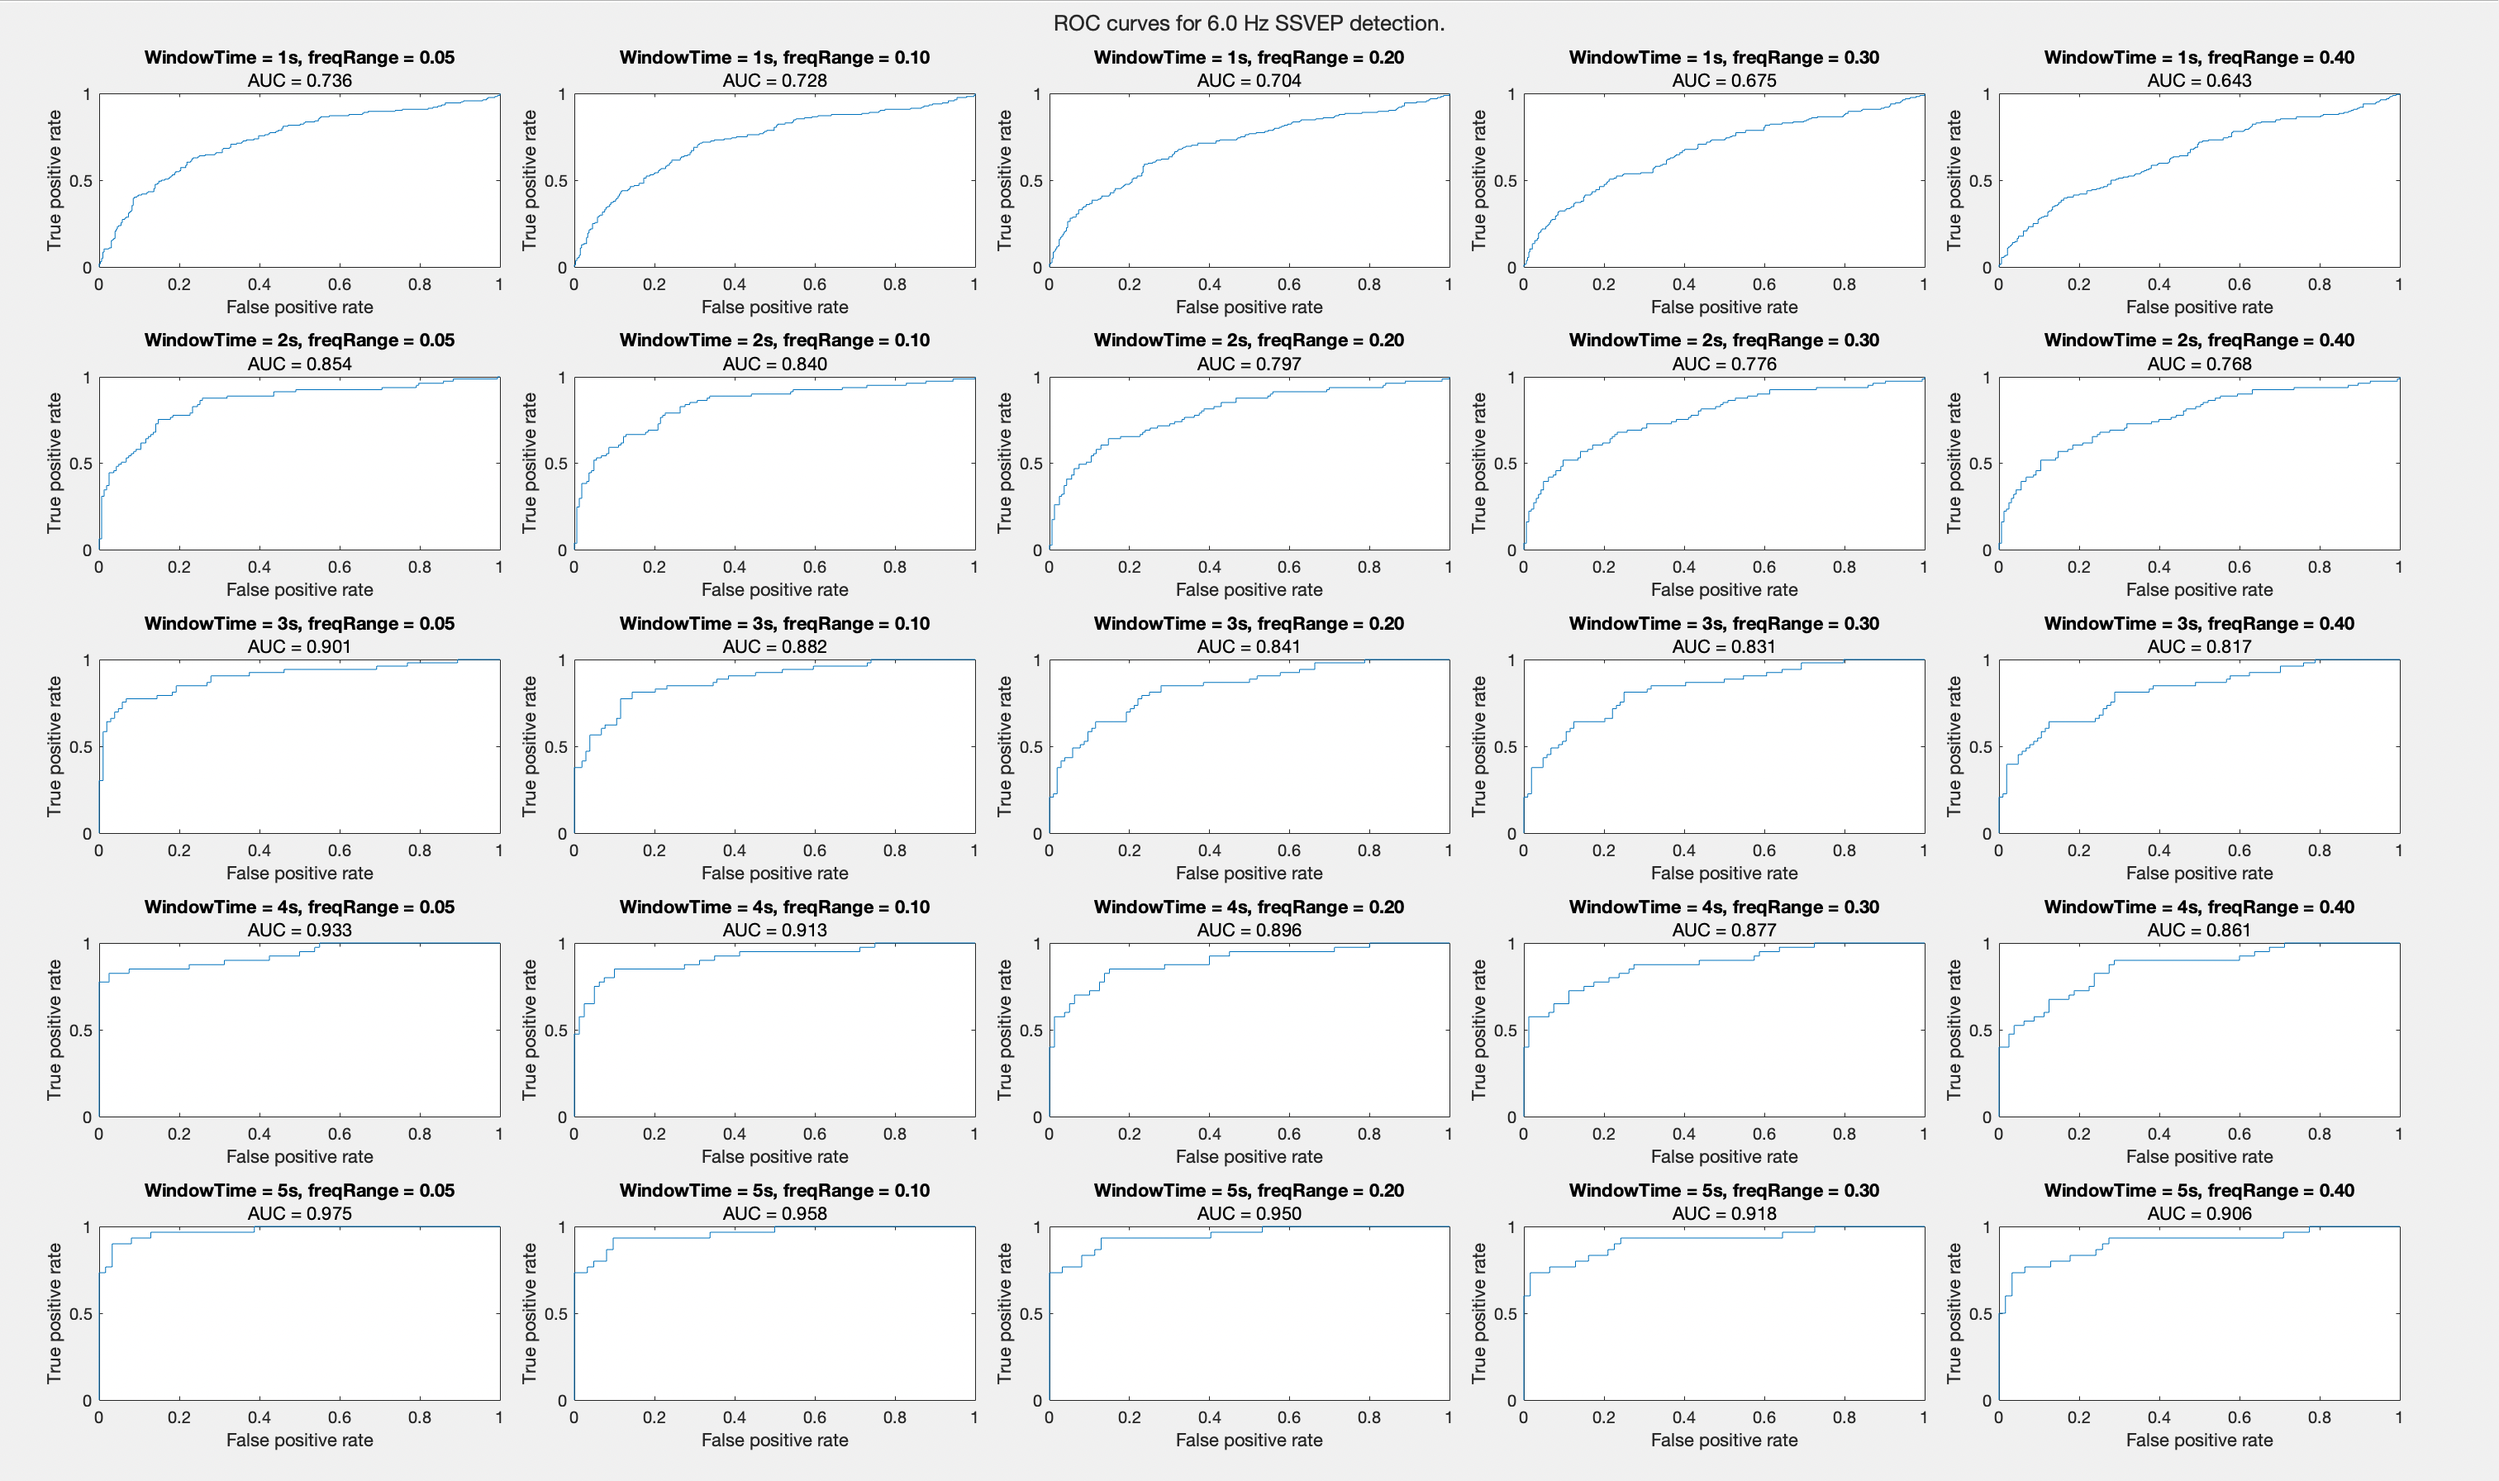
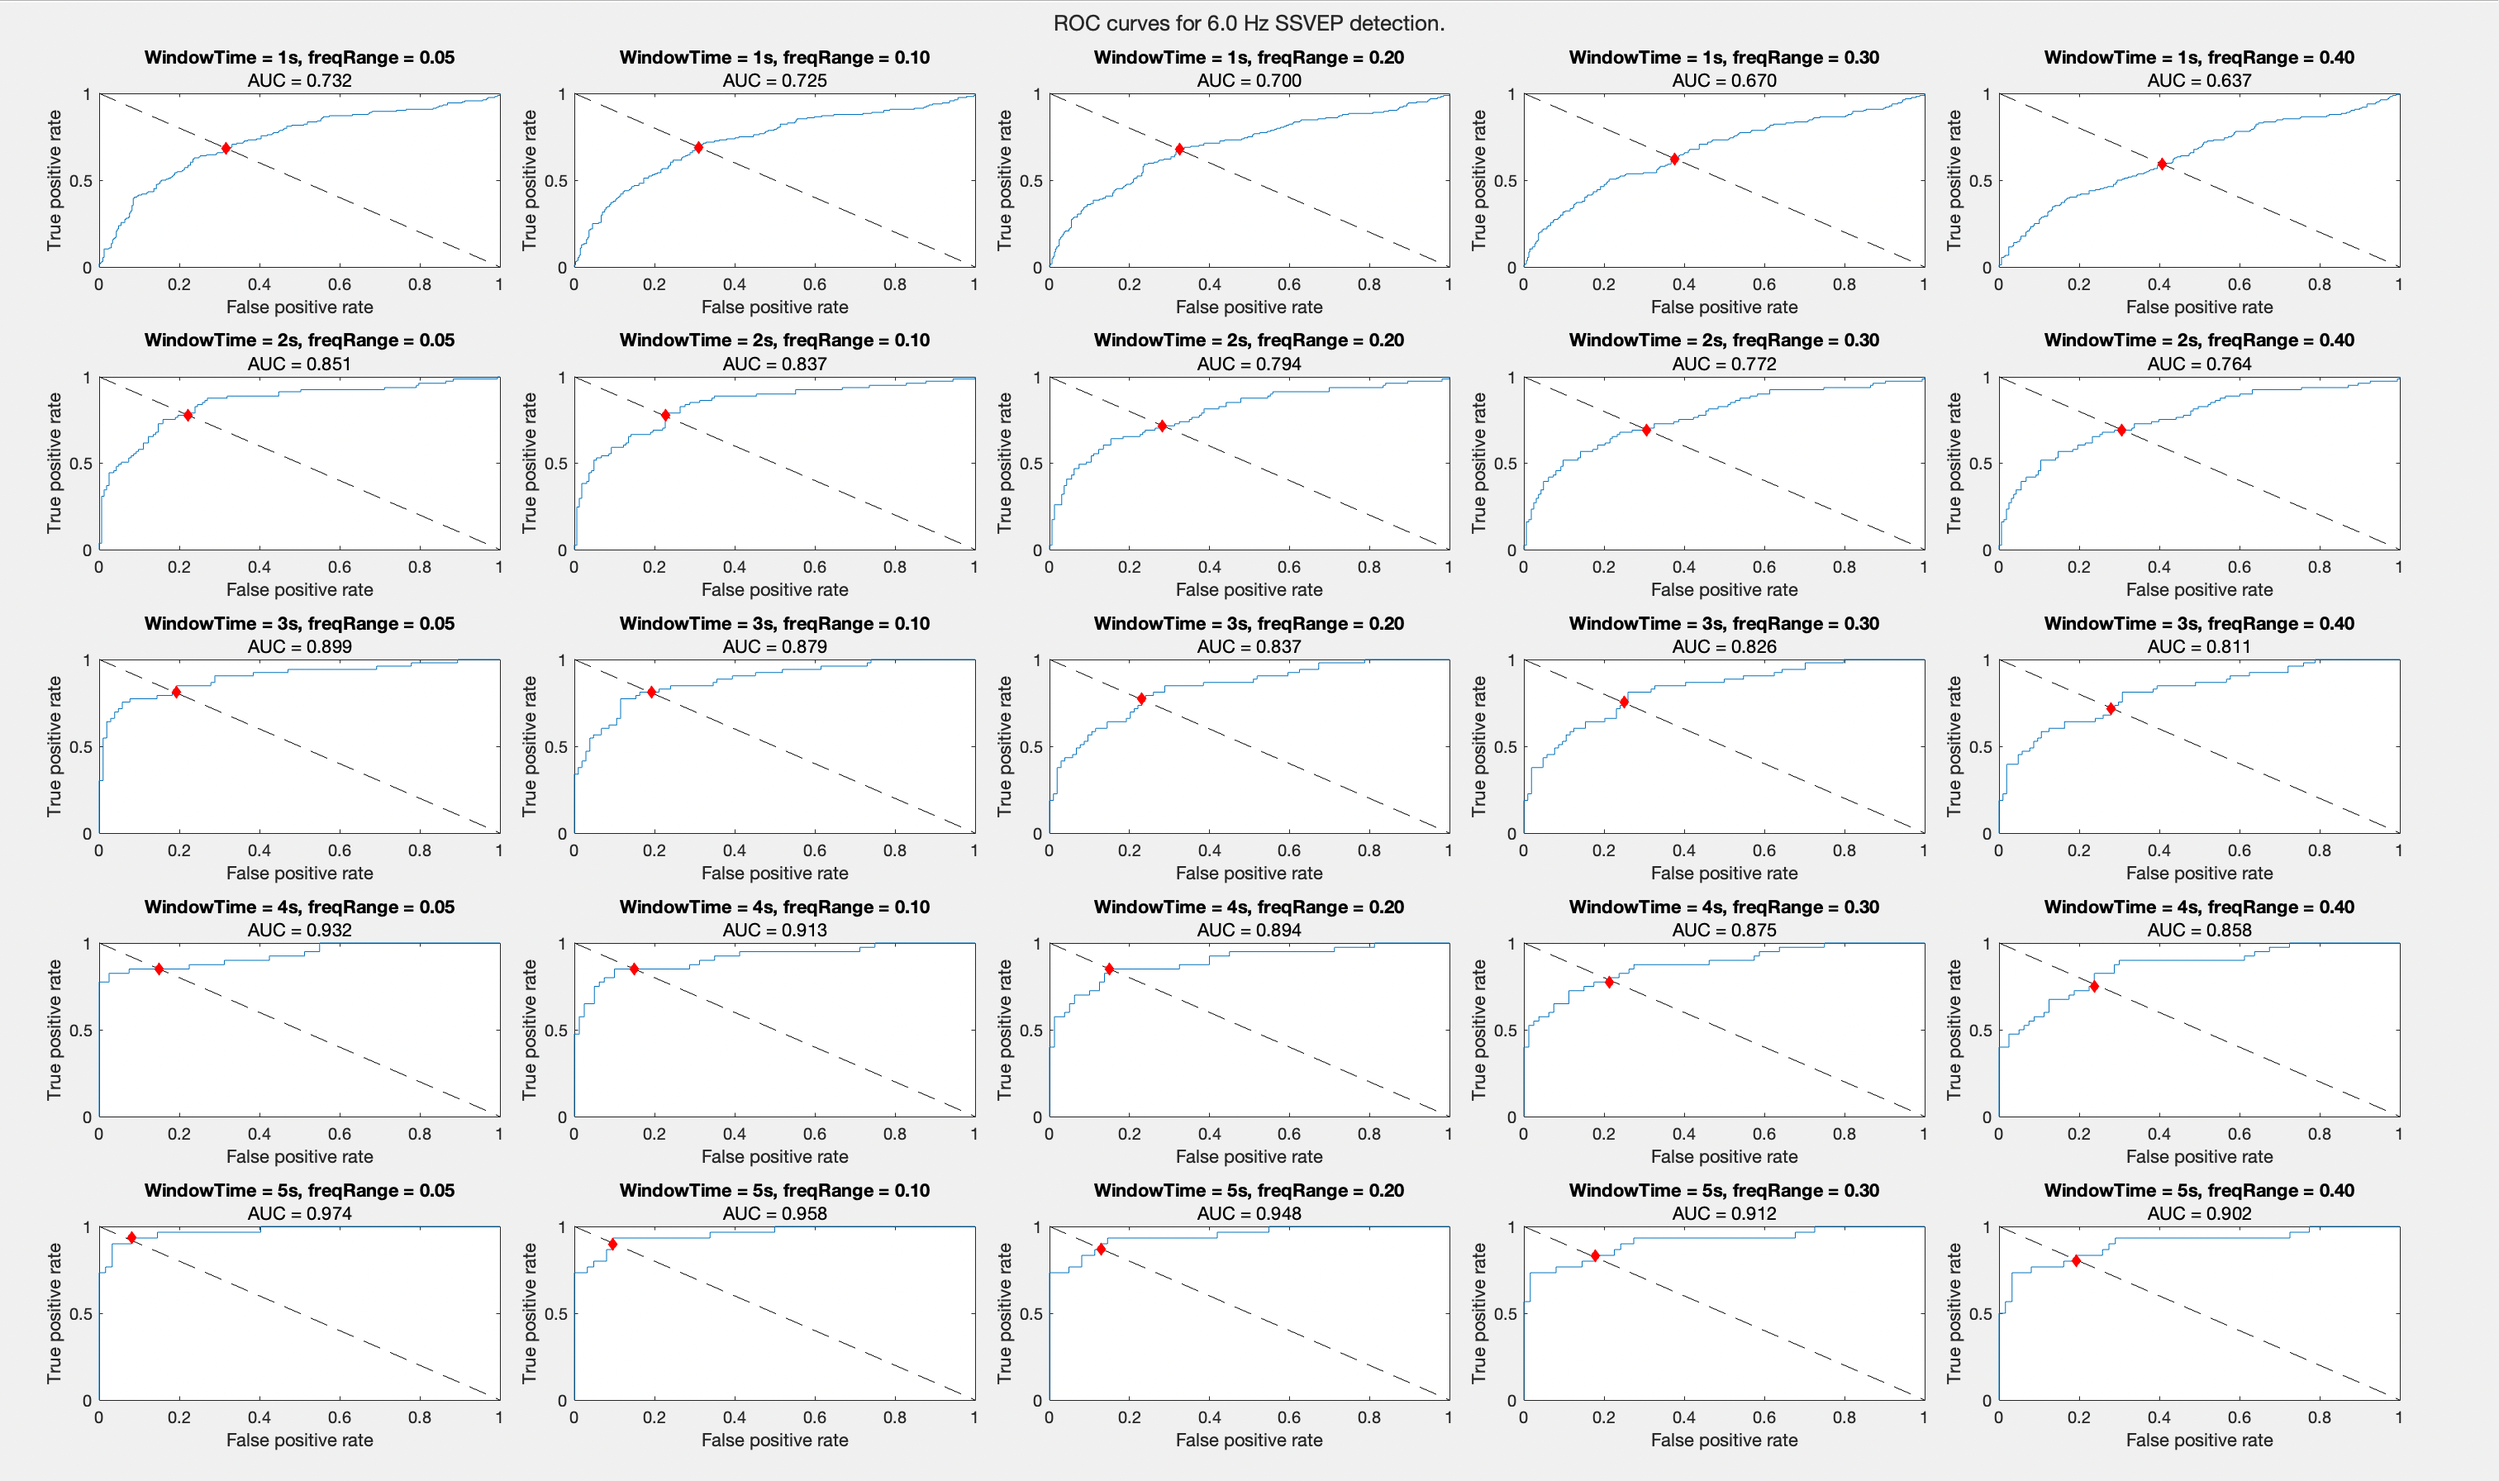
Finished classifications

diff --git a/AVI_SSVEP_classification.m b/AVI_SSVEP_classification.m
@@ -5,7 +5,7 @@ close all
 
 fs = 512;
 windowTime = 5;
-freqRange = .2;
+freqRange = .1;
 
 [X1,Y1] = createDataset(6, windowTime, freqRange, fs);
 [X2,Y2] = createDataset(7.4, windowTime, freqRange, fs);
@@ -14,11 +14,10 @@ bestThreshold7_4 = find_best_threshold(X2, Y2, 1);
 
 X = cat(2, X1, X2); % input matrix: maximum values of fft around targetFreqs
 Y = Y1 + (2*Y2); % labels: 1=6Hz, 2=7.4Hz, 0=no_freq
-y_pred = SSVEP_classifier(X, Y, bestThreshold6, bestThreshold7_4);
+y_pred = SSVEP_classifier(X, bestThreshold6, bestThreshold7_4);
 
 % Compute confusion matrix
 figure()
-subplot(2, 1, 1)
 C = confusionmat(Y, y_pred, "Order", [1 2 0]);
 cm = confusionchart(C,["6 Hz" "7.4 Hz" "null"]);
 cm.RowSummary = 'row-normalized';
@@ -26,97 +25,29 @@ cm.Title = sprintf("WindowTime = %ds, freqRange = %.2fHz", windowTime, freqRange
 title("My dataset")
 
 %% Create [X_test,Y_test] from AVI dataset and test the classifier
-[X1_test,Y1_test] = createAVIDataset(6, windowTime, freqRange, fs);
-[X2_test,Y2_test] = createAVIDataset(7.5, windowTime, freqRange, fs);
 
-X_test = cat(2, X1_test, X2_test); % input matrix: maximum values of fft around targetFreqs
-Y_test = Y1_test + (2*Y2_test); % labels: 1=6Hz, 2=7.4Hz
-y_test_pred = SSVEP_classifier(X_test, Y_test, bestThreshold6, bestThreshold7_4);
+fs = 512;
+windowTimes = [1 2 3 4 5];
+freqRanges = [.05 .1 .2 .3 .4];
 
-% Compute confusion matrix
-subplot(2, 1, 2)
-C = confusionmat(Y_test, y_test_pred, "Order", [1 2]);
-cm = confusionchart(C,["6 Hz" "7.5 Hz"]);
-cm.RowSummary = 'row-normalized';
-cm.Title = sprintf("WindowTime = %ds, freqRange = %.2fHz", windowTime, freqRange);
-title("AVI dataset")
-
-sgtitle(sprintf("SSVEP classification (windowTime = %ds, freqRange = %.2fHz)", windowTime, freqRange)) 
-
-%%
-function [X,Y] = createAVIDataset(targetFreq, windowTime, freqRange, fs)
-    dataDir = "data/AVI_SSVEP_Dataset_MAT/single/";
-    dataFiles = dir(dataDir);
-    
-    freqsOfInterest = [6 7.5];
-
-    % Remove unwanted files
-    dataFiles = dataFiles(contains({dataFiles.name}, '.mat'));
-
-    % Pre-allocate space
-    windowSize = windowTime * fs;
-    totWindows = 0;
-    for ii = 1:numel(dataFiles)
-        fileName = dataFiles(ii).name;
-        load(strcat(dataDir,fileName), "Data");
-        data = Data.EEG(:, ismember(Data.TargetFrequency, freqsOfInterest));
-
-        % For every signal of interest stored in the .mat file
-        for jj = 1:size(data,2)
-            signal = data(:,jj);
-   
-             % Resample if necessary
-            if fs ~= 512
-                data = resample(data, fs, 512);
-            end
-
-            totWindows = totWindows + floor(length(signal)/windowSize);
-        end
-    end
-    X = zeros(totWindows, 1);
-    Y = zeros(totWindows, 1);
-
-
-    % Populate dataset
-    idx = 1;
-    for ii = 1:numel(dataFiles)
-        fileName = dataFiles(ii).name;
-        load(strcat(dataDir,fileName), "Data");
-        data = Data.EEG(:, ismember(Data.TargetFrequency, freqsOfInterest));
-        labels = Data.TargetFrequency(ismember(Data.TargetFrequency, freqsOfInterest));
-
-        % Normalize the data
-        data = data./max(data);
+figure()
+t = tiledlayout(5, 5, TileSpacing="compact", Padding="compact");
+for windowTime = windowTimes
+    for freqRange = freqRanges
+        nexttile
+        [X1_test,Y1_test] = createAVIDataset(6, windowTime, freqRange, fs);
+        [X2_test,Y2_test] = createAVIDataset(7.5, windowTime, freqRange, fs);
         
-        % For every signal of interest stored in the .mat file
-        for jj = 1:size(data,2)
-            signal = data(:,jj);
-            label = labels(jj);
-
-            % Resample if necessary
-            if fs ~= 512
-                signal = resample(signal, fs, 512);
-            end
-            
-            [M, nWindows] = windowize(signal, windowSize);
-    
-            for kk = 1:nWindows
-                window = M(:, kk);
-    
-                % Add zero padding
-                window = cat(1, window, zeros(50*fs, 1));
-    
-                % Populate X
-                [coeff, ~] = findTargetFreq(window, targetFreq, fs, freqRange);
-                X(idx) = coeff;
-    
-                % Populate Y
-                if (targetFreq == label)
-                     Y(idx) = 1;
-                end
-    
-                idx = idx + 1;
-            end
-        end
+        X_test = cat(2, X1_test, X2_test); % input matrix: maximum values of fft around targetFreqs
+        Y_test = Y1_test + (2*Y2_test); % labels: 1=6Hz, 2=7.4Hz
+        y_test_pred = SSVEP_classifier(X_test, bestThreshold6, bestThreshold7_4);
+        
+        % Compute confusion matrix
+        C = confusionmat(Y_test, y_test_pred, "Order", [1 2 0]);
+        cm = confusionchart(C,["6 Hz" "7.5 Hz" "null"]);
+        cm.RowSummary = 'row-normalized';
+        cm.Title = sprintf("WindowTime = %ds, freqRange = %.2fHz", windowTime, freqRange);
+%         sgtitle(sprintf("SSVEP classification (windowTime = %ds, freqRange = %.2fHz)", windowTime, freqRange))
     end
 end
+title(t, "SSVEP classification on AVI dataset")

diff --git a/ssvep_classification.m b/ssvep_classification.m
@@ -20,7 +20,7 @@ for windowTime = windowTimes
 
         X = cat(2,X1,X2); % input matrix: maximum values of fft around targetFreqs
         Y = Y1 + (2*Y2); % labels: 1=6Hz, 2=7.4Hz, 0=no_freq
-        y_pred = SSVEP_classifier(X, Y, bestThreshold6, bestThreshold7_4);
+        y_pred = SSVEP_classifier(X, bestThreshold6, bestThreshold7_4);
         
         % Compute confusion matrix
         C = confusionmat(Y, y_pred, "Order", [1 2 0]);
@@ -29,4 +29,4 @@ for windowTime = windowTimes
         cm.Title = sprintf("WindowTime = %ds, freqRange = %.2fHz", windowTime, freqRange);
     end
 end
-title(t, "Confusion matrices for SSVEP classification")
+title(t, "SSVEP classification on my dataset")

diff --git a/createAVIDataset.m b/createAVIDataset.m
@@ -63,6 +63,11 @@ function [X,Y] = createAVIDataset(targetFreq, windowTime, freqRange, fs)
                 % Populate X
                 [coeff, ~] = findTargetFreq(window, targetFreq, fs, freqRange);
                 X(idx) = coeff;
+
+%                 if idx == 42
+%                     fAxis = (0:length(window)-1)/length(window)*fs;
+%                     plot(fAxis,abs(fft(window)))
+%                 end
     
                 % Populate Y
                 if (targetFreq == label)

diff --git a/SSVEP_classifier.m b/SSVEP_classifier.m
@@ -1,6 +1,6 @@
-function y_pred = SSVEP_classifier(X, Y, threshold6, threshold7_4)
+function y_pred = SSVEP_classifier(X, threshold6, threshold7_4)
 % Create the decision tree classifier based on both threshold values
-    y_pred = zeros(size(Y));
+    y_pred = zeros(length(X),1);
 
     for ii = 1:length(X)
         x = X(ii,:);
@@ -16,4 +16,5 @@ function y_pred = SSVEP_classifier(X, Y, threshold6, threshold7_4)
             end
         end
     end
+
 end

diff --git a/ROC_curves.m b/ROC_curves.m
@@ -30,7 +30,7 @@ for targetFreq = targetFreqs
             [~, idx] = min(distances);
             hold on
             plot([0 1], [1 0], 'k--')
-            plot(fpr(idx), tpr(idx), 'rd')
+            scatter(fpr(idx), tpr(idx), 'rd', 'filled')
         end
     end
     title(t, sprintf("ROC curves for %.1f Hz SSVEP detection.", targetFreq))
